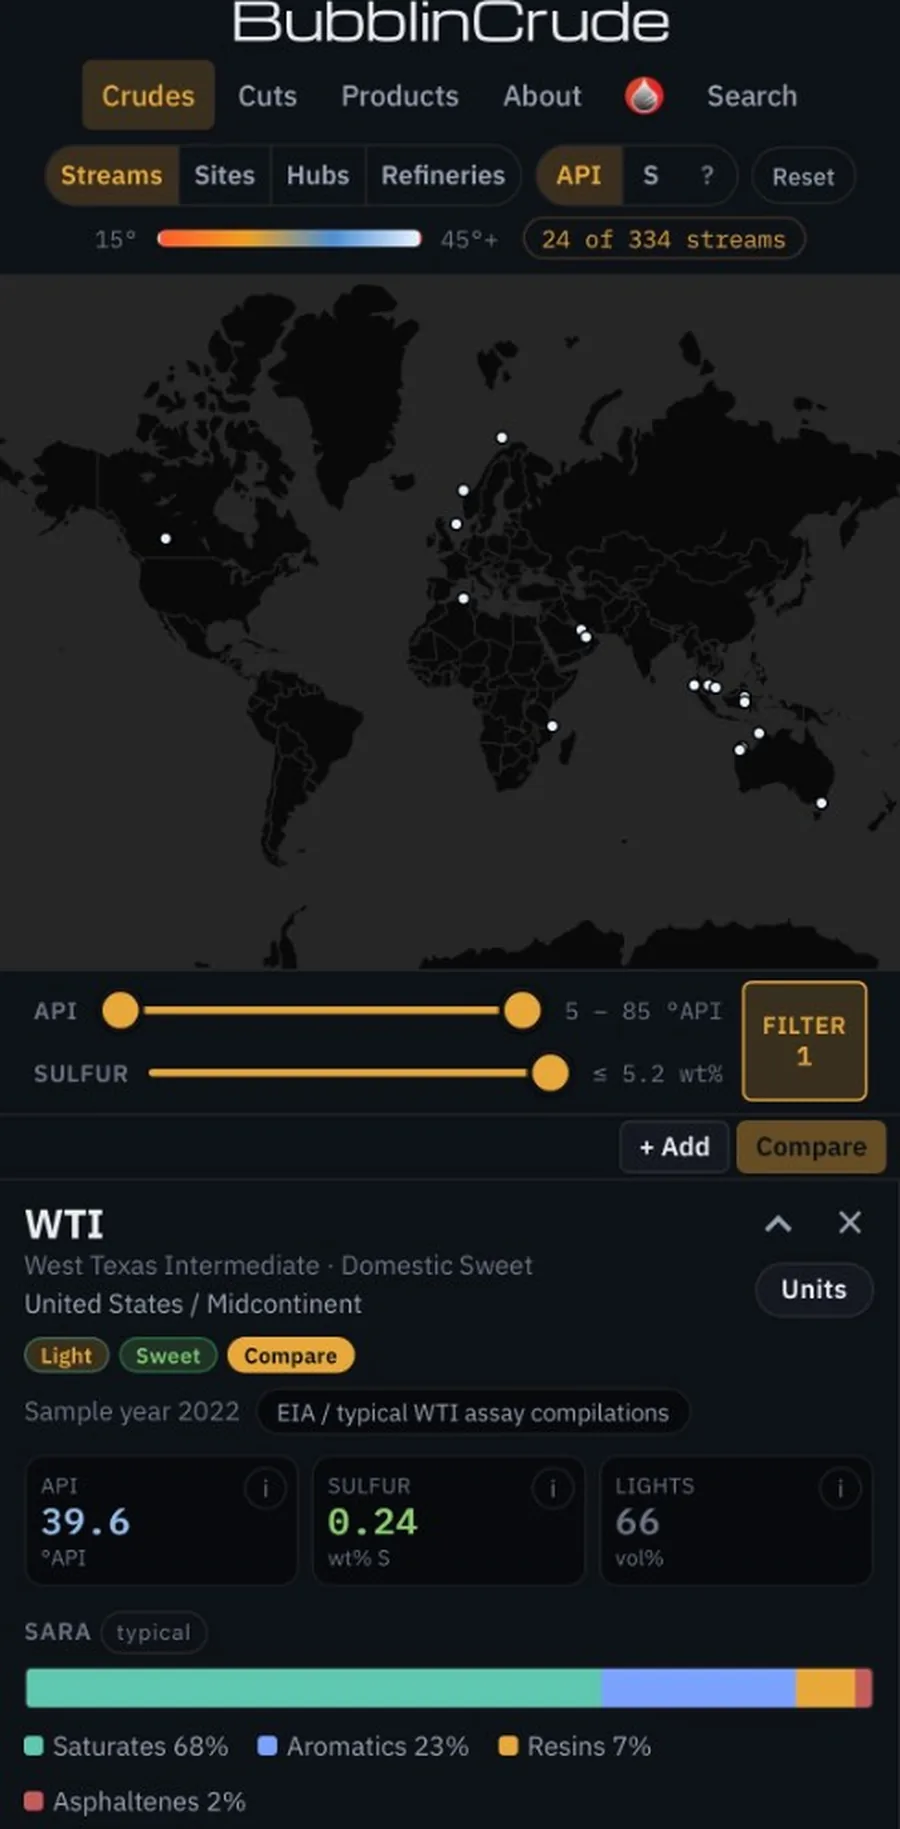
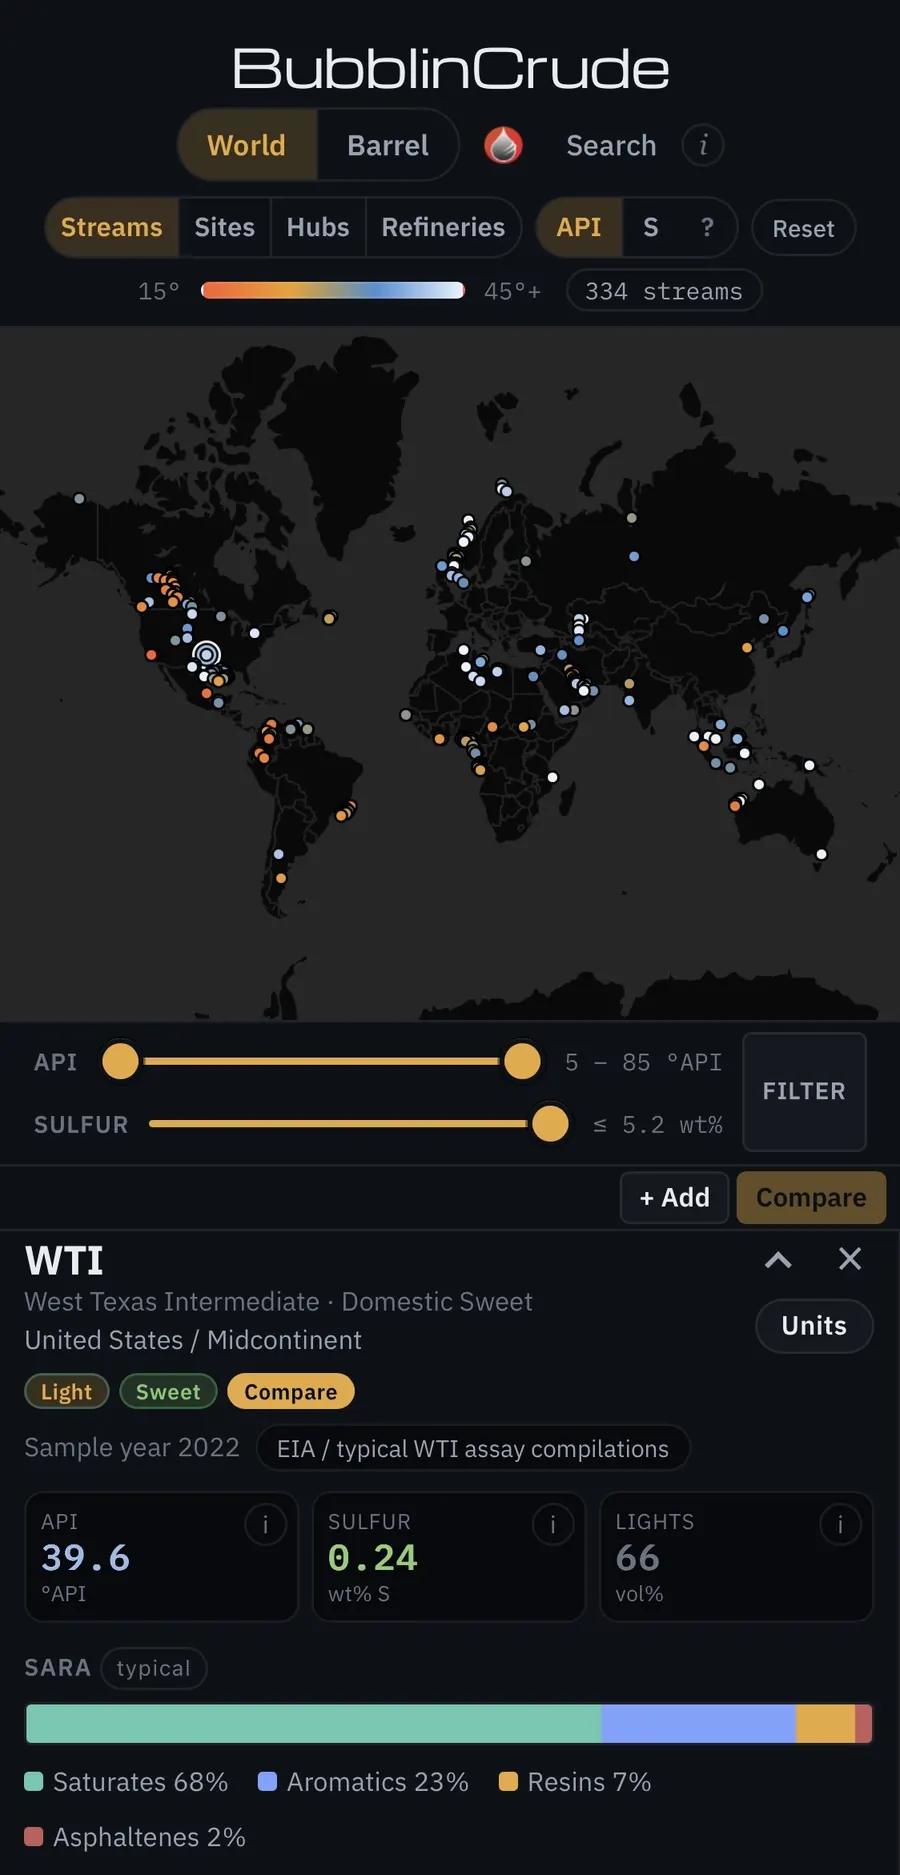
Refresh BubblinCrude hub card from the World and Barrel screenshot.

diff --git a/apps.js b/apps.js
@@ -15,9 +15,9 @@ export const APPS = [
     id: "bubblincrude-app",
     name: "BubblinCrude",
     href: "https://bubblincrude.markmaga.com",
-    img: "images/ss-bubblincrude.webp?v=5",
+    img: "images/ss-bubblincrude.webp?v=6",
     imgW: 900,
-    imgH: 1829,
+    imgH: 1875,
     hint: "Global crude streams · filter, assay, compare WTI, Merey-16, Boscan",
   },
   {
